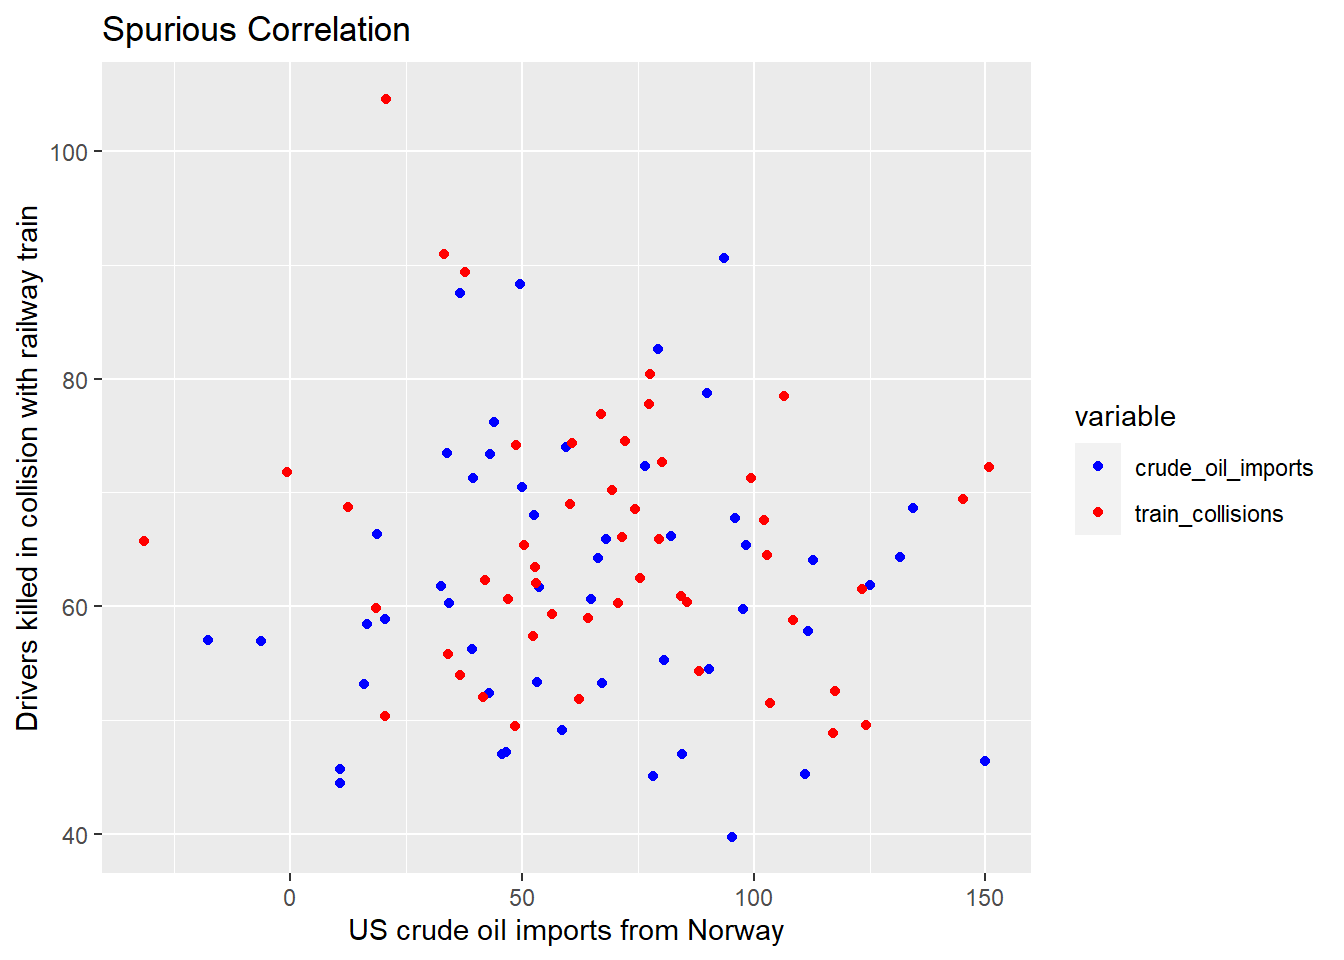
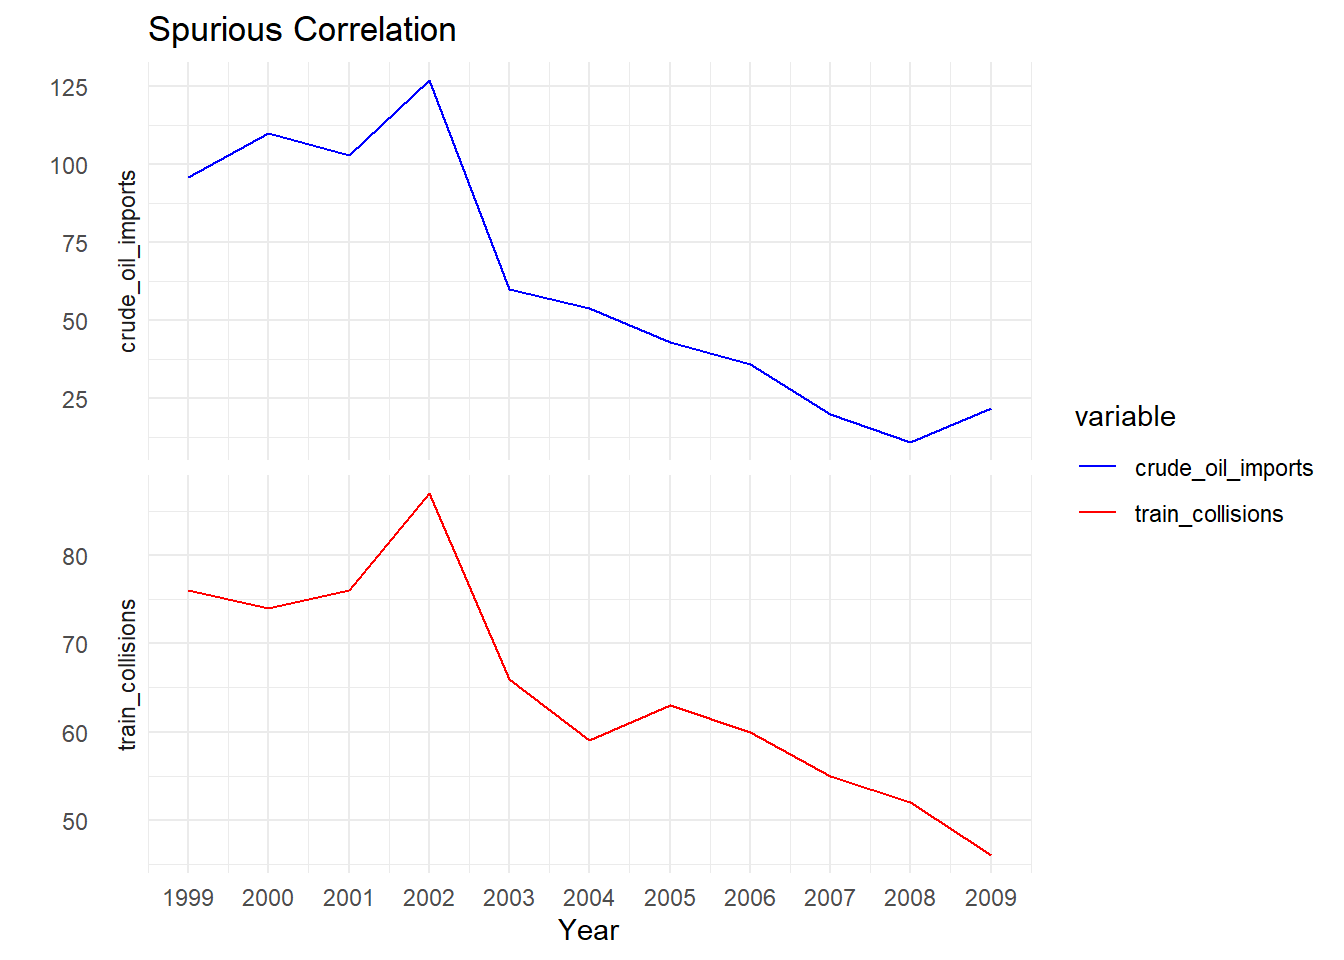
Corrected the code - chapter 4
Updated code of chapter 4

diff --git a/_site/content/01_journal/04_causality.html b/_site/content/01_journal/04_causality.html
@@ -217,38 +217,34 @@ pre > code.sourceCode > span > a:first-child::before { text-decoration: underlin
 </header>
 
 <p>[Graph ]</p>
-<div class="cell" data-hash="04_causality_cache/html/unnamed-chunk-1_6c28c4a659379dd68c805b0fc7d52152">
-<div class="sourceCode cell-code" id="cb1"><pre class="sourceCode numberSource r number-lines code-with-copy"><code class="sourceCode r"><span id="cb1-1"><a href="#cb1-1"></a>knitr<span class="sc">::</span><span class="fu">include_graphics</span>(<span class="st">"D:/Causal DS Assignment/cdsba-aneeshaanjali/images/chart.png"</span>)</span></code><button title="Copy to Clipboard" class="code-copy-button"><i class="bi"></i></button></pre></div>
+<div class="cell" data-hash="04_causality_cache/html/unnamed-chunk-1_777036f6544ba0ba6422e5af3cbd7596">
+<div class="sourceCode cell-code" id="cb1"><pre class="sourceCode numberSource r number-lines code-with-copy"><code class="sourceCode r"><span id="cb1-1"><a href="#cb1-1"></a><span class="co"># Install and load necessary packages</span></span>
+<span id="cb1-2"><a href="#cb1-2"></a><span class="fu">library</span>(ggplot2)</span>
+<span id="cb1-3"><a href="#cb1-3"></a><span class="fu">library</span>(tibble)</span>
+<span id="cb1-4"><a href="#cb1-4"></a></span>
+<span id="cb1-5"><a href="#cb1-5"></a><span class="co"># Create a tibble with specified data points</span></span>
+<span id="cb1-6"><a href="#cb1-6"></a>data_points <span class="ot">&lt;-</span> <span class="fu">tibble</span>(</span>
+<span id="cb1-7"><a href="#cb1-7"></a>  <span class="at">year =</span> <span class="dv">1999</span><span class="sc">:</span><span class="dv">2009</span>,  <span class="co"># Replace with actual years</span></span>
+<span id="cb1-8"><a href="#cb1-8"></a>  <span class="at">crude_oil_imports =</span> <span class="fu">c</span>(<span class="dv">96</span>, <span class="dv">110</span>, <span class="dv">103</span>, <span class="dv">127</span>, <span class="dv">60</span>, <span class="dv">54</span>, <span class="dv">43</span>, <span class="dv">36</span>, <span class="dv">20</span>, <span class="dv">11</span>, <span class="dv">22</span>),  <span class="co"># Replace with actual crude oil imports data</span></span>
+<span id="cb1-9"><a href="#cb1-9"></a>  <span class="at">train_collisions =</span> <span class="fu">c</span>(<span class="dv">76</span>, <span class="dv">74</span>, <span class="dv">76</span>, <span class="dv">87</span>, <span class="dv">66</span>, <span class="dv">59</span>, <span class="dv">63</span>, <span class="dv">60</span>, <span class="dv">55</span>, <span class="dv">52</span>, <span class="dv">46</span>)  <span class="co"># Replace with actual train collisions data</span></span>
+<span id="cb1-10"><a href="#cb1-10"></a>)</span>
+<span id="cb1-11"><a href="#cb1-11"></a><span class="co"># Melt the data for ggplot2</span></span>
+<span id="cb1-12"><a href="#cb1-12"></a>data_points_long <span class="ot">&lt;-</span> tidyr<span class="sc">::</span><span class="fu">gather</span>(data_points, variable, value, <span class="sc">-</span>year)</span>
+<span id="cb1-13"><a href="#cb1-13"></a></span>
+<span id="cb1-14"><a href="#cb1-14"></a><span class="co"># Create a line plot with facets</span></span>
+<span id="cb1-15"><a href="#cb1-15"></a><span class="fu">ggplot</span>(data_points_long, <span class="fu">aes</span>(<span class="at">x =</span> year, <span class="at">y =</span> value, <span class="at">color =</span> variable)) <span class="sc">+</span></span>
+<span id="cb1-16"><a href="#cb1-16"></a>  <span class="fu">geom_line</span>() <span class="sc">+</span></span>
+<span id="cb1-17"><a href="#cb1-17"></a>  <span class="fu">ggtitle</span>(<span class="st">"Spurious Correlation"</span>) <span class="sc">+</span></span>
+<span id="cb1-18"><a href="#cb1-18"></a>  <span class="fu">xlab</span>(<span class="st">"Year"</span>) <span class="sc">+</span></span>
+<span id="cb1-19"><a href="#cb1-19"></a>  <span class="fu">ylab</span>(<span class="st">""</span>) <span class="sc">+</span></span>
+<span id="cb1-20"><a href="#cb1-20"></a>  <span class="fu">facet_grid</span>(variable <span class="sc">~</span> ., <span class="at">scales =</span> <span class="st">"free_y"</span>, <span class="at">switch =</span> <span class="st">"y"</span>) <span class="sc">+</span></span>
+<span id="cb1-21"><a href="#cb1-21"></a>  <span class="fu">scale_color_manual</span>(<span class="at">values =</span> <span class="fu">c</span>(<span class="st">"crude_oil_imports"</span> <span class="ot">=</span> <span class="st">"blue"</span>, <span class="st">"train_collisions"</span> <span class="ot">=</span> <span class="st">"red"</span>)) <span class="sc">+</span></span>
+<span id="cb1-22"><a href="#cb1-22"></a>  <span class="fu">theme_minimal</span>() <span class="sc">+</span></span>
+<span id="cb1-23"><a href="#cb1-23"></a><span class="fu">scale_x_continuous</span>(<span class="at">breaks =</span> <span class="fu">seq</span>(<span class="dv">1999</span>, <span class="dv">2009</span>, <span class="at">by =</span> <span class="dv">1</span>))</span></code><button title="Copy to Clipboard" class="code-copy-button"><i class="bi"></i></button></pre></div>
 <div class="cell-output-display">
 <div class="quarto-figure quarto-figure-center">
 <figure class="figure">
-<p><a href="../../images/chart.png" class="lightbox" data-gallery="quarto-lightbox-gallery-1"><img src="../../images/chart.png" class="img-fluid figure-img"></a></p>
-</figure>
-</div>
-</div>
-<div class="sourceCode cell-code" id="cb2"><pre class="sourceCode numberSource r number-lines code-with-copy"><code class="sourceCode r"><span id="cb2-1"><a href="#cb2-1"></a><span class="co"># Install and load necessary packages</span></span>
-<span id="cb2-2"><a href="#cb2-2"></a><span class="fu">library</span>(ggplot2)</span>
-<span id="cb2-3"><a href="#cb2-3"></a></span>
-<span id="cb2-4"><a href="#cb2-4"></a><span class="co"># Create random data for a spurious correlation</span></span>
-<span id="cb2-5"><a href="#cb2-5"></a><span class="fu">set.seed</span>(<span class="dv">123</span>)</span>
-<span id="cb2-6"><a href="#cb2-6"></a>data <span class="ot">&lt;-</span> <span class="fu">data.frame</span>(</span>
-<span id="cb2-7"><a href="#cb2-7"></a>  <span class="at">crude_oil_imports =</span> <span class="fu">rnorm</span>(<span class="dv">100</span>, <span class="at">mean =</span> <span class="dv">62</span>, <span class="at">sd =</span> <span class="fl">40.54</span>),</span>
-<span id="cb2-8"><a href="#cb2-8"></a>  <span class="at">train_collisions =</span> <span class="fu">rnorm</span>(<span class="dv">100</span>, <span class="at">mean =</span> <span class="fl">64.909</span>, <span class="at">sd =</span> <span class="fl">12.26</span>)</span>
-<span id="cb2-9"><a href="#cb2-9"></a>)</span>
-<span id="cb2-10"><a href="#cb2-10"></a></span>
-<span id="cb2-11"><a href="#cb2-11"></a><span class="co"># Add a color variable to distinguish between the two variables</span></span>
-<span id="cb2-12"><a href="#cb2-12"></a>data<span class="sc">$</span>variable <span class="ot">&lt;-</span> <span class="fu">rep</span>(<span class="fu">c</span>(<span class="st">"crude_oil_imports"</span>, <span class="st">"train_collisions"</span>), <span class="at">each =</span> <span class="dv">50</span>)</span>
-<span id="cb2-13"><a href="#cb2-13"></a><span class="co"># Create a scatter plot</span></span>
-<span id="cb2-14"><a href="#cb2-14"></a><span class="fu">ggplot</span>(data, <span class="fu">aes</span>(<span class="at">x =</span> crude_oil_imports, <span class="at">y =</span> train_collisions, <span class="at">color =</span> variable)) <span class="sc">+</span></span>
-<span id="cb2-15"><a href="#cb2-15"></a>  <span class="fu">geom_point</span>() <span class="sc">+</span></span>
-<span id="cb2-16"><a href="#cb2-16"></a>  <span class="fu">ggtitle</span>(<span class="st">"Spurious Correlation"</span>) <span class="sc">+</span></span>
-<span id="cb2-17"><a href="#cb2-17"></a>  <span class="fu">xlab</span>(<span class="st">"US crude oil imports from Norway"</span>) <span class="sc">+</span></span>
-<span id="cb2-18"><a href="#cb2-18"></a>  <span class="fu">ylab</span>(<span class="st">"Drivers killed in collision with railway train"</span>) <span class="sc">+</span></span>
-<span id="cb2-19"><a href="#cb2-19"></a>  <span class="fu">scale_color_manual</span>(<span class="at">values =</span> <span class="fu">c</span>(<span class="st">"crude_oil_imports"</span> <span class="ot">=</span> <span class="st">"blue"</span>, <span class="st">"train_collisions"</span> <span class="ot">=</span> <span class="st">"red"</span>))</span></code><button title="Copy to Clipboard" class="code-copy-button"><i class="bi"></i></button></pre></div>
-<div class="cell-output-display">
-<div class="quarto-figure quarto-figure-center">
-<figure class="figure">
-<p><a href="04_causality_files/figure-html/unnamed-chunk-1-2.png" class="lightbox" data-gallery="quarto-lightbox-gallery-2"><img src="04_causality_files/figure-html/unnamed-chunk-1-2.png" class="img-fluid figure-img" width="672"></a></p>
+<p><a href="04_causality_files/figure-html/unnamed-chunk-1-1.png" class="lightbox" data-gallery="quarto-lightbox-gallery-1"><img src="04_causality_files/figure-html/unnamed-chunk-1-1.png" class="img-fluid figure-img" width="672"></a></p>
 </figure>
 </div>
 </div>
@@ -606,7 +602,7 @@ window.document.addEventListener("DOMContentLoaded", function (event) {
 });
 </script>
 </div> <!-- /content -->
-<script>var lightboxQuarto = GLightbox({"selector":".lightbox","openEffect":"zoom","loop":true,"closeEffect":"zoom","descPosition":"bottom"});</script>
+<script>var lightboxQuarto = GLightbox({"selector":".lightbox","closeEffect":"zoom","loop":true,"descPosition":"bottom","openEffect":"zoom"});</script>
 
 
 
